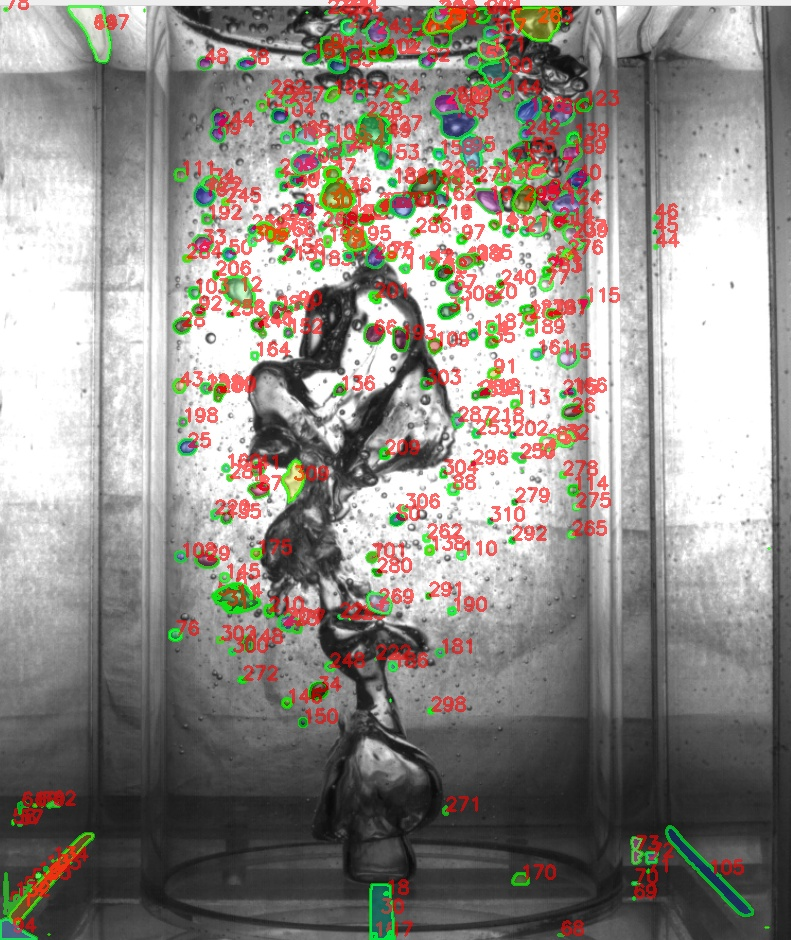
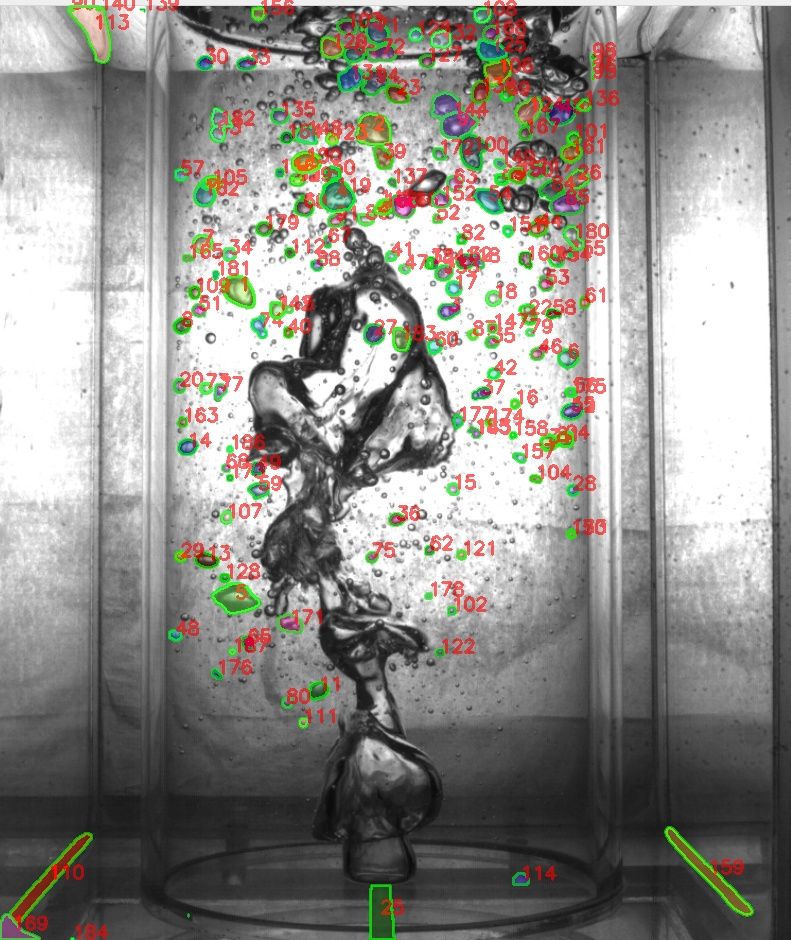
reran with basic model, added a simple histogram

diff --git a/test_markAll.py b/test_markAll.py
@@ -2,13 +2,14 @@ import cv2
 import numpy as np
 import torch
 from segment_anything import sam_model_registry, SamAutomaticMaskGenerator
+import matplotlib.pyplot as plt
 
 # -----------------------
 # Load SAM model
 # -----------------------
-# sam = sam_model_registry["vit_b"](checkpoint="./defaultCheckpoint/sam_vit_b_01ec64.pth")
+sam = sam_model_registry["vit_b"](checkpoint="./defaultCheckpoint/sam_vit_b_01ec64.pth")
 # sam.to(device="cpu")
-sam = sam_model_registry["default"](checkpoint="./defaultCheckpoint/sam_vit_h_4b8939.pth")
+# sam = sam_model_registry["default"](checkpoint="./defaultCheckpoint/sam_vit_h_4b8939.pth")
 sam.to(device="cpu")
 
 mask_generator = SamAutomaticMaskGenerator(
@@ -18,6 +19,8 @@ mask_generator = SamAutomaticMaskGenerator(
     stability_score_thresh=0.92#,
     # min_mask_region_area=100  # removes tiny noise
 )
+
+d=[]
 
 # -----------------------
 # Load Image
@@ -54,7 +57,7 @@ for mask_data in masks:
         perimeter = cv2.arcLength(cnt, True)
         if perimeter == 0:
             continue
-        
+        d.append(4*area/perimeter)
         # circularity = 4 * np.pi * (area / (perimeter ** 2))
 
         # if circularity > 0.75:
@@ -91,3 +94,17 @@ print(f"\nEstimated number of bubbles: {bubble_count}")
 output_bgr = cv2.cvtColor(output_image, cv2.COLOR_RGB2BGR)
 
 cv2.imwrite("highlighted_objects2.jpg", output_bgr)
+
+d=np.array(d)
+
+plt.figure()
+
+plt.hist(d, bins=15)
+
+plt.xlabel("diameter, pixels")
+
+plt.ylabel("Frequency")
+
+plt.title("Histogram Distribution (15 Bins)")
+
+plt.savefig('hist.jpg',dpi=300)
